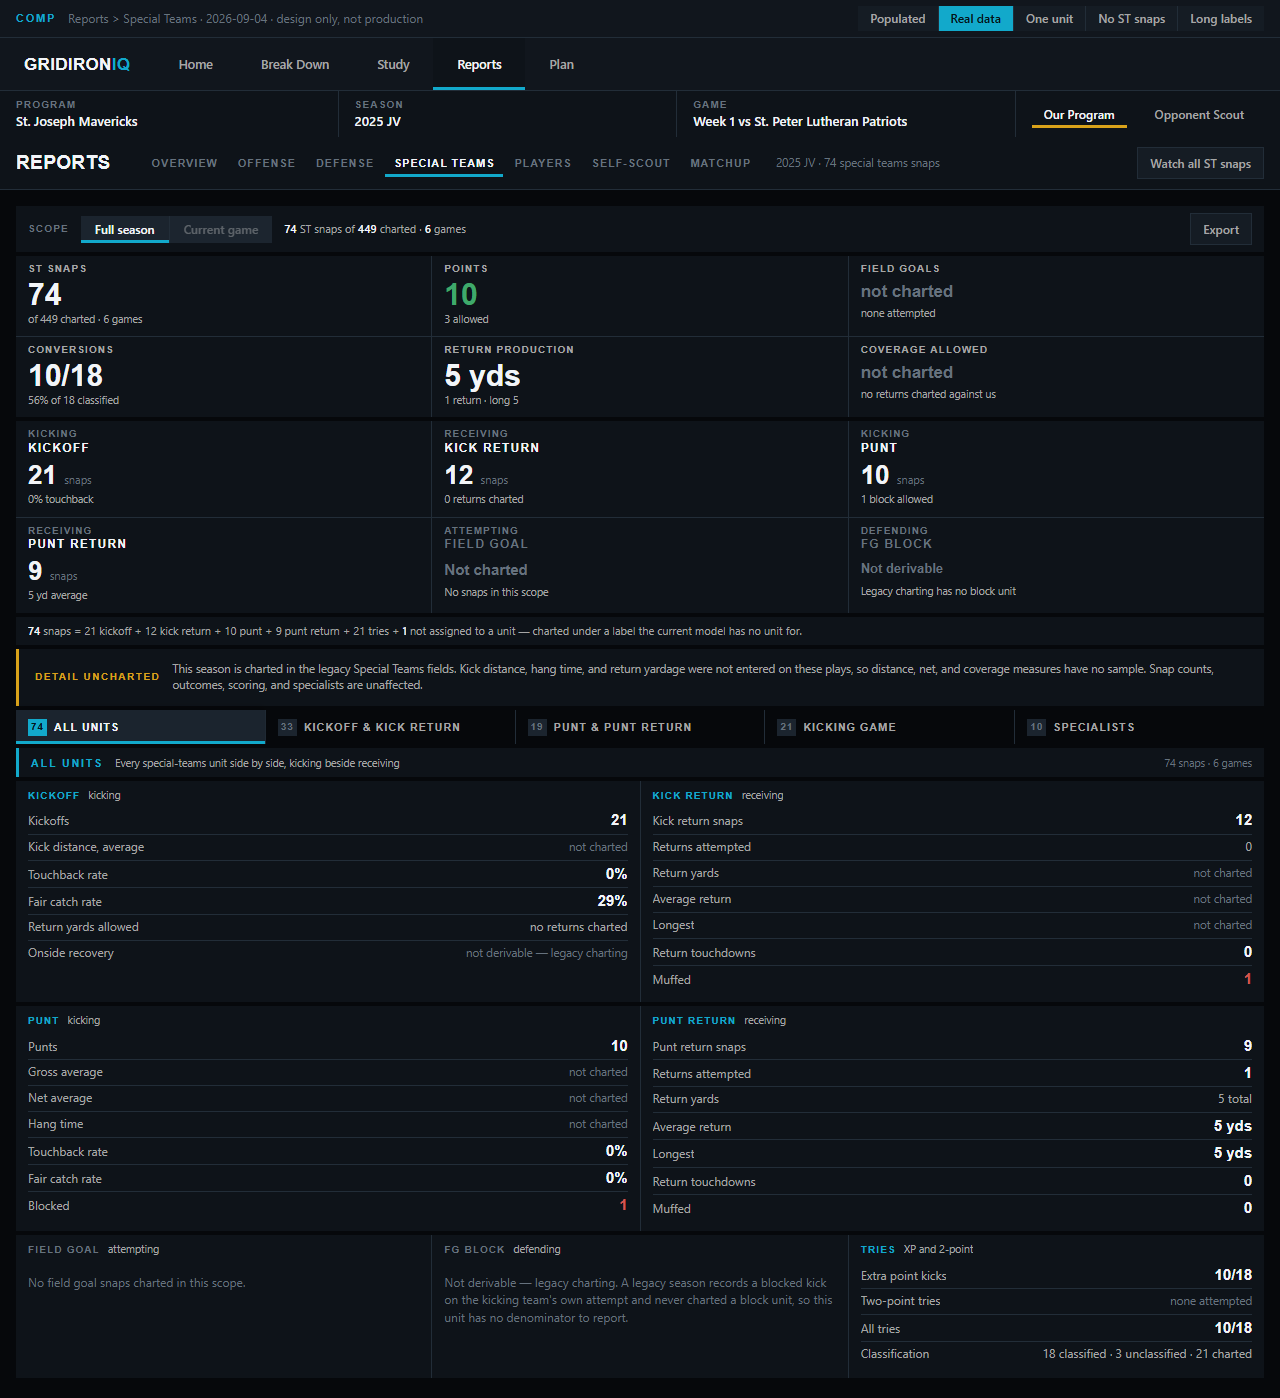
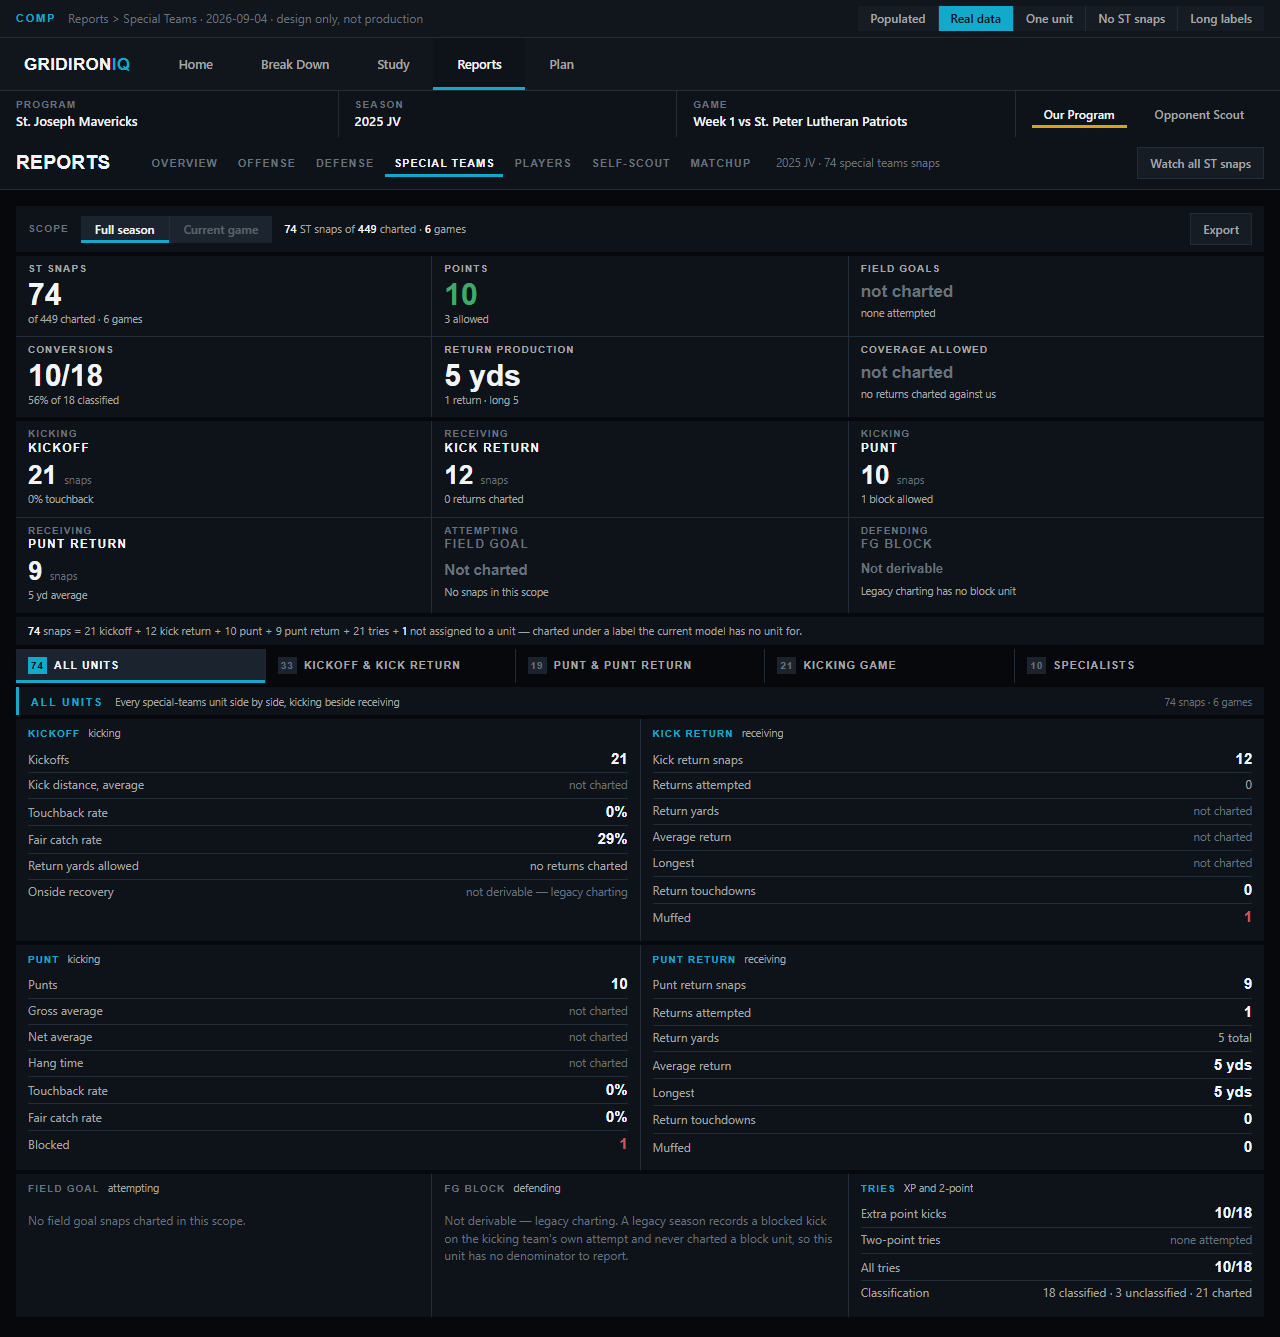
design: remove the legacy disclaimer band from the Special Teams comp
Comp only. Charlie removed the gold-ruled DETAIL UNCHARTED banner that appeared
above the navigation on a legacy-charted season, and it was the right call:
every field with no sample already says "not charted" on its own row, every
unit with no snaps says so on its own ledger card, and the FG Block module
still carries the legacy explanation in the one place it is load-bearing. The
banner restated in prose what the numbers already said, above the numbers, on
the state the coach opens most often.

Nothing replaces it. The board is a vertical stack of full-width bands, so
removing one closes the stack up rather than leaving a hole. Measured at
1440x900 on the real season, every legacy section is ~61px shorter:

  All units               1221 -> 1160
  Kickoff & Kick Return   1086 -> 1025
  Punt & Punt Return      1160 -> 1098
  Kicking game             907 ->  900   now fits one screen, no scroll
  Specialists             1134 -> 1072

Kicking game crossed back under the fold, so the whole section reads without
scrolling at the release width. The gain lands entirely in the states built
from the coach's real film.

Re-verified: 40/40 fixture checks, 78 captures, 0 failures, 0 console errors.

diff --git a/design-comps/reports-special-teams-2026-09-04/special-teams.html b/design-comps/reports-special-teams-2026-09-04/special-teams.html
@@ -300,11 +300,6 @@ tbody tr.cut:focus-visible td:first-child::before{opacity:1}
 .defs b{color:var(--gi-bd-strong);font-weight:600}
 .defs i{font-style:normal;color:var(--gi-bd-cyan);font-weight:600}
 .sparse{margin:0;padding:var(--gi-3x) 0;color:var(--gi-bd-muted);font:400 12px/1.45 var(--gi-sans)}
-.uncharted{display:flex;align-items:center;gap:var(--gi-3x);margin:0 0 4px;padding:var(--gi-3x) var(--gi-4x);
-  background:var(--gi-bd-panel);border-left:3px solid var(--gi-bd-gold)}
-.uncharted strong{flex:0 0 auto;color:var(--gi-bd-gold);font:700 10px/1 var(--gi-cond);
-  letter-spacing:.15em;text-transform:uppercase}
-.uncharted p{margin:0;min-width:0;color:var(--gi-bd-copy);font:400 11.5px/1.45 var(--gi-sans)}
 .empty{display:flex;align-items:center;justify-content:space-between;gap:var(--gi-4x);
   margin:0 0 4px;padding:var(--gi-4x);background:var(--gi-bd-panel);border-left:3px solid var(--gi-bd-cyan)}
 .empty h3{margin:0 0 3px;font:700 13px/1.2 var(--gi-cond);letter-spacing:.06em;text-transform:uppercase}
@@ -393,11 +388,6 @@ tbody tr.cut:focus-visible td:first-child::before{opacity:1}
     <div class="ledger" id="ledger"></div>
 
     <p class="note" id="reconcile" style="margin:0 0 4px;padding:6px var(--gi-3x);background:var(--gi-bd-panel)"></p>
-
-    <div class="uncharted" id="unchartedBanner" hidden>
-      <strong>Detail uncharted</strong>
-      <p id="unchartedCopy"></p>
-    </div>
 
     <div class="snav" role="tablist" aria-label="Special Teams units">
       <button type="button" data-sec="s1" class="on" aria-selected="true"><b id="nAll">0</b>All units</button>
@@ -919,14 +909,11 @@ function render(d) {
     + (gap > 0 ? ` — charted under a label the current model has no unit for.` : '');
   $('#reconcile').hidden = !d.snaps;
 
-  const legacyMissing = d.legacy;
-  $('#unchartedBanner').hidden = !legacyMissing;
-  if (legacyMissing) {
-    $('#unchartedCopy').innerHTML =
-      `This season is charted in the legacy Special Teams fields. Kick distance, hang time, and return `
-      + `yardage were not entered on these plays, so distance, net, and coverage measures have no sample. `
-      + `Snap counts, outcomes, scoring, and specialists are unaffected.`;
-  }
+  /* No legacy disclaimer band. Every field that has no sample already says
+     "not charted" on its own row, and every unit with no snaps says so on its
+     own ledger card, so a banner restating that in paragraph form was telling
+     the coach something the numbers already told him -- in more words, above
+     the numbers, on the state he opens most often. */
 
   const snapsKo = d.kickoffs.n + d.kr.n, snapsPt = d.punts.n + d.pr.n;
   const snapsKg = d.fg.att + (d.blocks.na ? 0 : d.blocks.n) + tryCharted;

diff --git a/design-comps/reports-special-teams-2026-09-04/RATIONALE.md b/design-comps/reports-special-teams-2026-09-04/RATIONALE.md
@@ -92,9 +92,35 @@ Top to bottom:
 2. **KPI band, six across**
 3. **Unit ledger, six across** — every unit, always
 4. **Reconciliation line** — every snap accounted for
-5. **Legacy banner** — only when the season is legacy-charted
-6. **Unit navigation, five surfaces**
-7. **The selected surface**
+5. **Unit navigation, five surfaces**
+6. **The selected surface**
+
+### 2c · No legacy disclaimer band — removed 2026-09-04
+
+An earlier pass put a gold-ruled `DETAIL UNCHARTED` banner above the navigation
+on any legacy-charted season, restating in a paragraph that distance, net, and
+coverage had no sample. **Charlie removed it**, and it was the right call:
+every field without a sample already says `not charted` on its own row, every
+unit without snaps says so on its own ledger card, and the FG Block module
+still carries the legacy explanation in the one place it is load-bearing. The
+banner told the coach in prose what the numbers were already telling him —
+above the numbers, on the state he opens most often.
+
+**Nothing replaces it, and nothing should.** The board is a vertical stack of
+full-width bands, so removing one closes the stack up rather than leaving a
+hole. Measured at 1440×900 on the real season:
+
+| Section | Before | After |
+|---|---|---|
+| All units | 1221 | 1160 |
+| Kickoff & Kick Return | 1086 | 1025 |
+| Punt & Punt Return | 1160 | 1098 |
+| Kicking game | 907 | **900 — now fits one screen, no scroll** |
+| Specialists | 1134 | 1072 |
+
+Every legacy section is ~61px shorter, and Kicking Game crossed back under the
+fold. The gain lands entirely in the states built from the coach's real film,
+which is where it matters.
 
 ### 2a · Why the KPI band is six, not seven
 
